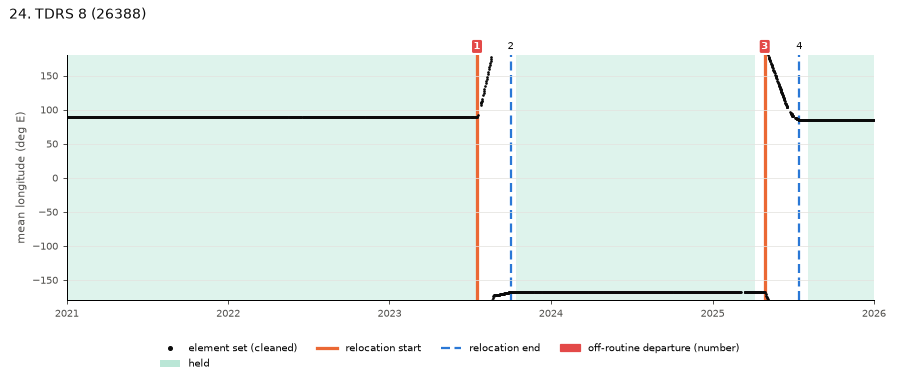
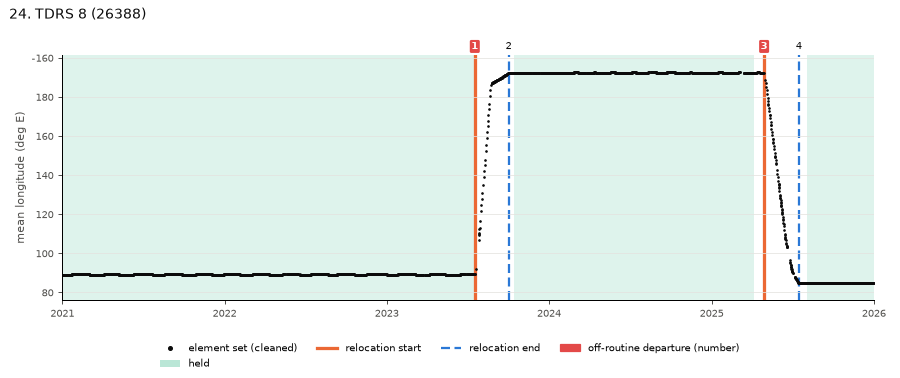
Dataset card fixes and date-line charts: lon_after wording, check 6 split, check 8 named, type guard
The card now states lon_after for a departure with no later hold as the median of the last 10 days
of the data, splits check 6 into its two comparisons, names check 8's failure, gives the one target
chosen on dev trials, and moves the 2-year rating bar out of the known limits. The job checks that
rocket bodies and debris match the dead-object check and are never rated, and asks for --catalogue
when OUT/objects.csv is missing. Charts of objects that cross 180 deg keep a continuous longitude
axis with wrapped labels; SJ-17, TDRS 8, FENGYUN 4B and SBIRS GEO 6 are redrawn. No table changes.

diff --git a/orbit_watch/jobs/dataset.py b/orbit_watch/jobs/dataset.py
@@ -82,6 +82,11 @@ def build(findings: Path, catalogue: dict[int, dict]) -> tuple[list[dict], list[
     for r in unrated:
         if catalogue[int(r["norad_id"])]["object_type"] != r["object_type"]:
             raise ValueError(f"{r['norad_id']}: catalogue type differs from unrated.csv")
+    dead = {n for n in population if catalogue[n]["object_type"] in ("ROCKET BODY", "DEBRIS")}
+    if len(dead) != load_json(routine / "checks_all.json")["dead_objects"]["objects"]:
+        raise ValueError("rocket body and debris count differs from checks_all.json")
+    if dead & {int(r["norad_id"]) for r in rank}:
+        raise ValueError("a rocket body or debris object is rated")
 
     score = {key(r): r for r in departures}
     flag = {(r["norad_id"], "relocation_end", r["date"]): r for r in flagged}
@@ -223,15 +228,13 @@ def routine_checks(c: dict, planted: dict, rank: list[dict]) -> tuple[list[list]
     cuts = c["causality"]
     same = {d: v["spearman_vs_full_run_cut_at_same_date"] for d, v in cuts.items()}
     final = {d: v["spearman_vs_full_run_final"] for d, v in cuts.items()}
-    passed = [d for d, v in same.items() if v >= TARGETS["as_of"]]
-    whole = len(passed) == len(same) and all(v >= TARGETS["as_of"] for v in final.values())
-    none = not passed and not any(v >= TARGETS["as_of"] for v in final.values())
-    add("6. Spearman of reruns on data cut at each year-end, against the full run cut at the same date / "
-        "against the final run",
-        ", ".join(f"{d}: {same[d]} / {final[d]}" for d in cuts), num(TARGETS["as_of"]),
-        "pass" if whole else "**fail**" if none else
-        f"part, against the same-date run at {len(passed)} of {len(same)} cuts; against the final run at "
-        f"{sum(v >= TARGETS['as_of'] for v in final.values())} of {len(final)}")
+    for label, side in (("the full run cut at the same date", same), ("the final run", final)):
+        passed = [d for d, v in side.items() if v >= TARGETS["as_of"]]
+        failed = [d for d in side if d not in passed]
+        add(f"6. Spearman of reruns on data cut at each year-end, against {label}",
+            ", ".join(f"{d}: {side[d]}" for d in side), num(TARGETS["as_of"]),
+            "pass" if not failed else "**fail**" if not passed else
+            f"part, pass at {', '.join(passed)}; fail at {', '.join(failed)}")
     a = c["hand_audit"]["top"]
     add("7. Top 30 judged irregular in the blind hand audit", f"{a['class']['irregular']} of {a['objects']}",
         f"{TARGETS['audit']} of {a['objects']}", verdict(a["class"]["irregular"] >= TARGETS["audit"]))
@@ -243,8 +246,9 @@ def routine_checks(c: dict, planted: dict, rank: list[dict]) -> tuple[list[list]
     mid = median(float(r["bits_per_year"]) for r in rank)
     ok = sd["in_lower_half"] >= TARGETS["steady"] * sd["rateable"]
     add("9. Cited steady keepers in the lower half",
-        f"{sd['in_lower_half']} of {sd['rateable']}; none of the {sd['listed']} has a scored departure, against "
-        f"{sd['rated_share_no_scored_departure']:.1%} of rated objects (chance {sd['chance_of_at_least_as_many_in_a_random_draw']})",
+        f"{sd['in_lower_half']} of {sd['rateable']}; none of the {sd['listed']} has a scored departure, and "
+        f"{sd['rated_share_no_scored_departure']:.1%} of rated objects ({sd['rated_no_scored_departure']} of "
+        f"{sd['rated']}) have none (chance {sd['chance_of_at_least_as_many_in_a_random_draw']})",
         f"{TARGETS['steady']:.0%}", verdict(ok) + (f", but weak: the median rated object has {num(mid)} bits per year"
                                                     if ok and mid == 0 else ""))
     return out, tally
@@ -322,7 +326,8 @@ def card(findings: Path, events: list[dict], objects: list[dict]) -> str:
         "fresh_max": fresh["real_max_abs_error_days"], "routine_audit_table": routine_audit,
         "checks_table": table(["check", "result", "target", "verdict"], check_rows),
         "checks_n": len(check_rows), "checks_pass": tally["pass"], "checks_fail": tally["fail"],
-        "checks_part": tally["part"],
+        "checks_part": tally["part"], "irregular_top": checks["cited_lists"]["irregular"]["in_top_5_percent"],
+        "irregular_rateable": checks["cited_lists"]["irregular"]["rateable"],
         "commit_events": sc["commit"][:7], "commit_routine": ro["commit"][:7],
         "commit_cache": ro["belt_cache_commit"][:7], "commit_checks": checks["commit"][:7],
         "commit_planted": planted["commit"][:7], "commit_eval": ev["commit"][:7],
@@ -358,8 +363,10 @@ def evidence(findings: Path, events: list[dict], objects: list[dict]) -> str:
              f"{irregular} of these {len(top)} were judged irregular; the others are marked below.", "",
              "In each chart the green bands are the held spans the score uses and each vertical line is one state "
              "change, numbered as in the table under it. A number on a red badge is an off-routine departure "
-             "(5 bits or more). The longitude axis covers the object's holds and listed longitudes; element sets "
-             "outside it (launch and transfer orbits) are counted in the corner and not drawn.", ""]
+             "(5 bits or more). The longitude axis covers the object's holds and listed longitudes, and runs on "
+             "across 180 deg for an object whose longitudes cross it, with its labels wrapped back to -180 to 180. "
+             "Element sets outside the axis, such as launch and transfer orbits or the drift after a graveyard "
+             "climb, are counted at the top right and not drawn.", ""]
     if any(notes[int(o["rank"])]["class"] == "unclear" for o in top):
         lines += ["For an `unclear` object a `departures_real` of `no` means the judge could not see the move on the "
                   "four-panel chart, whose axes its launch points stretched, not that the move was disproved. The "
@@ -434,7 +441,9 @@ def main(argv: list[str] | None = None) -> int:
     p.add_argument("--geo-dir", type=Path, help="for --charts: folder of <norad>.tle files; default $ORBIT_WATCH_DATA/geo")
     p.add_argument("--cache", type=Path, help="for --charts: belt cache; default $ORBIT_WATCH_DATA/routine/belt.pkl")
     a = p.parse_args(argv)
-    cat = catalogue_from_manifest(a.catalogue) if a.catalogue else catalogue_from_objects(a.out / "objects.csv")
+    if not a.catalogue and not (a.out / "objects.csv").exists():
+        p.error(f"{a.out / 'objects.csv'} does not exist; pass --catalogue with the GEO-region manifest.json")
+    cat =catalogue_from_manifest(a.catalogue) if a.catalogue else catalogue_from_objects(a.out / "objects.csv")
     events, objects = build(FINDINGS, cat)
     write(a.out / "events.csv", csv_text(EVENT_FIELDS, events))
     write(a.out / "objects.csv", csv_text(OBJECT_FIELDS, objects))
@@ -479,7 +488,7 @@ by hand.
 | `relocation_start` | a held object left its slot and was held again later, was still moving at relocation speed when the data end, or moved at relocation speed until a graveyard climb |
 | `relocation_end` | a moving object started to hold a slot |
 | `graveyard` | a held object left and its semi-major axis rose at least 150 km, with no later hold; or an object never held climbed at least 150 km above its first 90 days and stayed there |
-| `keeping_stop` | a held object stopped east-west station keeping with no climb, no later hold and no move under way at the end of the data |
+| `keeping_stop` | a held object stopped east-west station keeping with no climb, no later hold and no move under way at the end of the data, or drifted slowly for more than 90 days before a climb |
 | `ns_keeping_stop` | a held object stopped correcting its inclination but kept its longitude |
 | `free_burn` | a step of at least 1 km in the semi-major axis by an object never held again |
 
@@ -501,7 +510,9 @@ listed and not scored. Of the $departures departures, $scored are scored ($stays
 model, $rate_model by the rate model), $end_of_life are end of life and $commissioning are early starts;
 $off_routine are off-routine. There are $overruns stay overruns, and $flagged of the $arrivals arrivals,
 on $flagged_objects objects, carry a proximity flag. Objects held at least 2 years are ranked by bits
-per year; only $with_bits of the $rated rated objects have any bits. The full method is in
+per year; only $with_bits of the $rated rated objects have any bits. The 2-year bar is part of
+the method, so recently launched inspectors and rarely held objects are on the unrated list, not in
+the rank. The full method is in
 [orbit_watch/README.md](../orbit_watch/README.md#routine-score-and-irregularity-rank).
 
 ## Columns of `events.csv`
@@ -519,7 +530,7 @@ unless the column says otherwise.
 | `date` | the UTC day of the change. A departure is the first element set that leaves the hold's drift band or longitude box and stays out 5 days, or the last burn plus half the burn interval; an arrival the first set that stays inside the new slot's band; a change inside a gap of more than 2 days is placed in the gap from the first set after it |
 | `signal` | what dated the change: `rate_exit` or `rate_entry` (drift rate or longitude leaving or entering the hold), `burn_gap` (last east-west burn plus half the burn interval), `a_step` (a step in the semi-major axis), `ns_gap` (last inclination correction plus half the median interval between corrections), `mode_change` (no sustained exit or entry within 45 days, so the 30-day mode boundary is used) |
 | `size` | per type: `relocation_start` km, the median semi-major axis of the first moving run minus the hold's, negative when the object drifts east (0 when the next window is already held); `relocation_end` 0; `graveyard` and `keeping_stop` km, the highest semi-major axis after the hold minus the hold's median (0 for a keeping stop followed by a move or climb); `ns_keeping_stop` deg, the largest inclination after it; `free_burn` m, the step detector's step, which can have the opposite sign to the net change on a steady climb |
-| `lon_before`, `lon_after` | mean longitude before and after the change, deg east from -180 to 180 (west is negative): the centre of the hold's longitude range (of its 30 days next to the change when the range is wider than 0.5 deg), or the median of the 10 days next to the change when that side is not held. Empty when those 10 days hold no element set ($empty_lon rows) |
+| `lon_before`, `lon_after` | mean longitude before and after the change, deg east from -180 to 180 (west is negative): from or into a hold, the centre of the hold's longitude range (of its 30 days next to the change when the range is wider than 0.5 deg); on an arrival from a stretch that is not held, `lon_before` is the median of the 10 days before it; for a departure with no later hold, `lon_after` is the median of the last 10 days of the data. Empty when those 10 days hold no element set ($empty_lon rows) |
 | `mode_before`, `mode_after` | ESA mode class of the 30-day mode segments either side: `controlled_lon_inc` (held, inclination controlled), `controlled_lon` (held), `drifting`, `librating_75E`, `librating_105W`, `librating_both`, `out_of_region` |
 | `mode_change` | the date of the 30-day mode boundary the change came from |
 | `scored` | departures only: 1 if the relocation start is scored; 0 for end-of-life rows and for starts in an object's first 180 days |
@@ -593,11 +604,14 @@ $fresh_table
 
 ### The routine score and rank
 
-**Of the $checks_n checks, $checks_pass pass, $checks_fail fail and $checks_part passes only in part.**
-Every target was set before the first run. The rank agrees with a blind reading of its top 30 charts
-and keeps cited steady keepers out of its upper half, but it flags few cited relocations as
-off-routine, it is not stable between the two halves of the period, a rank on part of the data does
-not predict the five-year rank, and the planted rhythm test is below its target. Only $stay_objects rated
+**Of the $checks_n rows below (check 6 has one row per run it is compared with), $checks_pass pass,
+$checks_fail fail and $checks_part passes only in part.** Every target was set before the first run,
+with one exception: the stay window's share was chosen on check 4's dev trials, so check 4's test
+trials are its held-out result. The rank agrees with a blind reading of its top 30 charts and keeps
+cited steady keepers out of its upper half, but it flags few cited relocations as off-routine, only
+$irregular_top of the $irregular_rateable cited irregular objects held long enough to rate are in its
+top 5%, it is not stable between the two halves of the period, a rank on part of the data does not
+predict the five-year rank, and the planted rhythm test is below its target. Only $stay_objects rated
 objects get any bits from the stay model (ranks $stay_ranks); everywhere else the order is set by the
 rate model alone, which counts how often and how late an object left, not whether it left on its own
 schedule. Sources: `checks_all.json` and `planted_all.json` in `findings/routine/`.
@@ -638,8 +652,6 @@ Each is an open issue labelled `debt`.
 - Check 9 is weak while the median rated object has 0 bits per year ([#90](../../../issues/90)).
 - The proximity flag's owner code is per country, so an arrival next to another operator of the same
   country is never flagged ([#89](../../../issues/89)).
-- Only objects held 2 years are rated, so recently launched inspectors and rarely held objects are on
-  the unrated list, not in the rank.
 
 All open limits: [issues labelled `debt`](../../../issues?q=is%3Aissue+is%3Aopen+label%3Adebt).
 

diff --git a/orbit_watch/charts.py b/orbit_watch/charts.py
@@ -39,6 +39,10 @@ def kind_of(event_type: str) -> str:
     return "arrival" if event_type == "relocation_end" else "other"
 
 
+def wrap(lon) -> np.ndarray:
+    return (np.asarray(lon, dtype=float) + 180.0) % 360.0 - 180.0
+
+
 def lon_range(days: np.ndarray, lon: np.ndarray, events: Sequence[dict],
               holds: Sequence[tuple[float, float]]) -> tuple[float, float]:
     inside = np.zeros(len(days), dtype=bool)
@@ -49,9 +53,23 @@ def lon_range(days: np.ndarray, lon: np.ndarray, events: Sequence[dict],
         values = list(lon)
     lo, hi = float(np.min(values)), float(np.max(values))
     if hi - lo > WHOLE_BELT_DEG:
+        centre = float(np.degrees(np.angle(np.exp(1j * np.radians(values)).mean())))
+        shifted = centre + wrap(np.array(values) - centre)
+        lo, hi = float(np.min(shifted)), float(np.max(shifted))
+    if hi - lo > WHOLE_BELT_DEG:
         return -180.0, 180.0
     pad = max(LON_PAD_DEG, 0.08 * (hi - lo))
     return lo - pad, hi + pad
+
+
+def recentre(lon: np.ndarray, lo: float, hi: float) -> np.ndarray:
+    centre = (lo + hi) / 2
+    return centre + wrap(lon - centre)
+
+
+def tick_label(v: float, _pos=None) -> str:
+    w = float(wrap(v))
+    return f"{180.0 if w == -180.0 else w:g}"
 
 
 def label_rows(days: Sequence[float]) -> list[int]:
@@ -74,6 +92,7 @@ def chart(path: Path, title: str, records, events: Sequence[dict], holds: Sequen
     import matplotlib.pyplot as plt
     from matplotlib.lines import Line2D
     from matplotlib.patches import Patch
+    from matplotlib.ticker import FuncFormatter
 
     kept, _ = drop_snapback_blocks(records)
     tk = track(kept)
@@ -85,16 +104,19 @@ def chart(path: Path, title: str, records, events: Sequence[dict], holds: Sequen
     hidden = 0
     for ax, name in zip(axes, panels):
         y = series[name]
+        if name == "lon":
+            lo, hi = lon_range(tk.days, tk.lon, events, holds)
+            if lo < -180.0 or hi > 180.0:
+                y = recentre(y, lo, hi)
+                ax.yaxis.set_major_formatter(FuncFormatter(tick_label))
+            hidden = int(((y < lo) | (y > hi)).sum())
+            ax.set_ylim(lo, hi)
         for s, e in holds:
             ax.axvspan(s, e, color=HOLD, alpha=0.14, lw=0, zorder=0)
         for x, ev in zip(xs, events):
             kind = kind_of(ev["event_type"])
             ax.axvline(x, zorder=ZORDER[kind], **STYLES[kind][1])
         ax.plot(tk.days, y, ".", color=INK, ms=2.2, zorder=2.0)
-        if name == "lon":
-            lo, hi = lon_range(tk.days, tk.lon, events, holds)
-            hidden = int(((y < lo) | (y > hi)).sum())
-            ax.set_ylim(lo, hi)
         ax.set_ylabel(PANELS[name], fontsize=9, color=MUTED)
         ax.tick_params(labelsize=8, colors=MUTED)
         for side in ("top", "right"):

diff --git a/tests/test_dataset.py b/tests/test_dataset.py
@@ -3,7 +3,7 @@ from pathlib import Path
 
 import numpy as np
 
-from orbit_watch.charts import label_rows, lon_range
+from orbit_watch.charts import label_rows, lon_range, recentre
 from orbit_watch.jobs import dataset as ds
 from orbit_watch.truth import read_event_rows
 
@@ -55,7 +55,11 @@ def test_longitude_axis_covers_holds_and_listed_longitudes_but_not_the_transfer(
     lon = np.array([100.0, 60.0, 20.0, 10.0, 10.1, 10.0, 9.9, 9.5, 9.4, 9.5])
     lo, hi = lon_range(days, lon, [{"lon_before": "10.0", "lon_after": "9.45"}], [(3.0, 6.0), (7.0, 10.0)])
     assert lo == 9.4 - 0.25 and hi == 10.1 + 0.25
-    assert lon_range(days, np.array([170.0] * 5 + [-170.0] * 5), [], [(0.0, 10.0)]) == (-180.0, 180.0)
+    lo, hi = lon_range(days, np.array([175.0] * 5 + [-178.0] * 5), [], [(0.0, 10.0)])
+    assert np.allclose([lo, hi], [175.0 - 0.56, 182.0 + 0.56])
+    assert np.allclose(recentre(np.array([175.0, -178.0, -10.0]), lo, hi), [175.0, 182.0, 350.0])
+    spread = np.array([-170.0, -60.0, 50.0, 160.0] * 2 + [0.0, 0.0])
+    assert lon_range(days, spread, [], [(0.0, 10.0)]) == (-180.0, 180.0)
 
 
 def test_close_event_labels_move_to_a_new_row():

diff --git a/dataset/README.md b/dataset/README.md
@@ -29,7 +29,7 @@ by hand.
 | `relocation_start` | a held object left its slot and was held again later, was still moving at relocation speed when the data end, or moved at relocation speed until a graveyard climb |
 | `relocation_end` | a moving object started to hold a slot |
 | `graveyard` | a held object left and its semi-major axis rose at least 150 km, with no later hold; or an object never held climbed at least 150 km above its first 90 days and stayed there |
-| `keeping_stop` | a held object stopped east-west station keeping with no climb, no later hold and no move under way at the end of the data |
+| `keeping_stop` | a held object stopped east-west station keeping with no climb, no later hold and no move under way at the end of the data, or drifted slowly for more than 90 days before a climb |
 | `ns_keeping_stop` | a held object stopped correcting its inclination but kept its longitude |
 | `free_burn` | a step of at least 1 km in the semi-major axis by an object never held again |
 
@@ -58,7 +58,9 @@ listed and not scored. Of the 341 departures, 197 are scored (33 by the stay
 model, 164 by the rate model), 97 are end of life and 47 are early starts;
 131 are off-routine. There are 8 stay overruns, and 35 of the 340 arrivals,
 on 29 objects, carry a proximity flag. Objects held at least 2 years are ranked by bits
-per year; only 104 of the 532 rated objects have any bits. The full method is in
+per year; only 104 of the 532 rated objects have any bits. The 2-year bar is part of
+the method, so recently launched inspectors and rarely held objects are on the unrated list, not in
+the rank. The full method is in
 [orbit_watch/README.md](../orbit_watch/README.md#routine-score-and-irregularity-rank).
 
 ## Columns of `events.csv`
@@ -76,7 +78,7 @@ unless the column says otherwise.
 | `date` | the UTC day of the change. A departure is the first element set that leaves the hold's drift band or longitude box and stays out 5 days, or the last burn plus half the burn interval; an arrival the first set that stays inside the new slot's band; a change inside a gap of more than 2 days is placed in the gap from the first set after it |
 | `signal` | what dated the change: `rate_exit` or `rate_entry` (drift rate or longitude leaving or entering the hold), `burn_gap` (last east-west burn plus half the burn interval), `a_step` (a step in the semi-major axis), `ns_gap` (last inclination correction plus half the median interval between corrections), `mode_change` (no sustained exit or entry within 45 days, so the 30-day mode boundary is used) |
 | `size` | per type: `relocation_start` km, the median semi-major axis of the first moving run minus the hold's, negative when the object drifts east (0 when the next window is already held); `relocation_end` 0; `graveyard` and `keeping_stop` km, the highest semi-major axis after the hold minus the hold's median (0 for a keeping stop followed by a move or climb); `ns_keeping_stop` deg, the largest inclination after it; `free_burn` m, the step detector's step, which can have the opposite sign to the net change on a steady climb |
-| `lon_before`, `lon_after` | mean longitude before and after the change, deg east from -180 to 180 (west is negative): the centre of the hold's longitude range (of its 30 days next to the change when the range is wider than 0.5 deg), or the median of the 10 days next to the change when that side is not held. Empty when those 10 days hold no element set (5 rows) |
+| `lon_before`, `lon_after` | mean longitude before and after the change, deg east from -180 to 180 (west is negative): from or into a hold, the centre of the hold's longitude range (of its 30 days next to the change when the range is wider than 0.5 deg); on an arrival from a stretch that is not held, `lon_before` is the median of the 10 days before it; for a departure with no later hold, `lon_after` is the median of the last 10 days of the data. Empty when those 10 days hold no element set (5 rows) |
 | `mode_before`, `mode_after` | ESA mode class of the 30-day mode segments either side: `controlled_lon_inc` (held, inclination controlled), `controlled_lon` (held), `drifting`, `librating_75E`, `librating_105W`, `librating_both`, `out_of_region` |
 | `mode_change` | the date of the 30-day mode boundary the change came from |
 | `scored` | departures only: 1 if the relocation start is scored; 0 for end-of-life rows and for starts in an object's first 180 days |
@@ -172,11 +174,14 @@ counted here.
 
 ### The routine score and rank
 
-**Of the 9 checks, 4 pass, 4 fail and 1 passes only in part.**
-Every target was set before the first run. The rank agrees with a blind reading of its top 30 charts
-and keeps cited steady keepers out of its upper half, but it flags few cited relocations as
-off-routine, it is not stable between the two halves of the period, a rank on part of the data does
-not predict the five-year rank, and the planted rhythm test is below its target. Only 8 rated
+**Of the 10 rows below (check 6 has one row per run it is compared with), 4 pass,
+5 fail and 1 passes only in part.** Every target was set before the first run,
+with one exception: the stay window's share was chosen on check 4's dev trials, so check 4's test
+trials are its held-out result. The rank agrees with a blind reading of its top 30 charts and keeps
+cited steady keepers out of its upper half, but it flags few cited relocations as off-routine, only
+4 of the 6 cited irregular objects held long enough to rate are in its
+top 5%, it is not stable between the two halves of the period, a rank on part of the data does not
+predict the five-year rank, and the planted rhythm test is below its target. Only 8 rated
 objects get any bits from the stay model (ranks 1, 2, 3, 4, 5, 6, 7, 28); everywhere else the order is set by the
 rate model alone, which counts how often and how late an object left, not whether it left on its own
 schedule. Sources: `checks_all.json` and `planted_all.json` in `findings/routine/`.
@@ -188,10 +193,11 @@ schedule. Sources: `checks_all.json` and `planted_all.json` in `findings/routine
 | 3. Cited relocation starts on objects held a year before them, flagged off-routine when caught | 1 of 4 caught (8 cited, 4 on objects held a year before, 4 caught) | 90% of those caught | **fail** |
 | 4. Planted rhythm: 4 moves on a fixed rhythm, then one on or off it; both kinds scored right | dev 0.811 of 90 caught and scored, 0.73 of all 100; test 0.804 of 92 caught and scored, 0.74 of all 100 (3 moves then 1: dev 0.057, test 0.053) | 90% of trials | **fail** |
 | 5. Top 30 on 2021 to mid-2023 in the top 60 on the rest | 5 of 24; Spearman 0.068 | half | **fail** |
-| 6. Spearman of reruns on data cut at each year-end, against the full run cut at the same date / against the final run | 2022-01-01: 0.705 / 0.089, 2023-01-01: 0.918 / 0.342, 2024-01-01: 1.0 / 0.726, 2025-01-01: 0.976 / 0.841 | 0.9 | part, against the same-date run at 3 of 4 cuts; against the final run at 0 of 4 |
+| 6. Spearman of reruns on data cut at each year-end, against the full run cut at the same date | 2022-01-01: 0.705, 2023-01-01: 0.918, 2024-01-01: 1.0, 2025-01-01: 0.976 | 0.9 | part, pass at 2023-01-01, 2024-01-01, 2025-01-01; fail at 2022-01-01 |
+| 6. Spearman of reruns on data cut at each year-end, against the final run | 2022-01-01: 0.089, 2023-01-01: 0.342, 2024-01-01: 0.726, 2025-01-01: 0.841 | 0.9 | **fail** |
 | 7. Top 30 judged irregular in the blind hand audit | 27 of 30 | 24 of 30 | pass |
 | 8. Cited irregular objects in the top 5% | 4 of 6 rateable (18 listed) | 75% | **fail** |
-| 9. Cited steady keepers in the lower half | 31 of 31; none of the 31 has a scored departure, against 80.5% of rated objects (chance 0.000944) | 90% | pass, but weak: the median rated object has 0 bits per year |
+| 9. Cited steady keepers in the lower half | 31 of 31; none of the 31 has a scored departure, and 80.5% of rated objects (428 of 532) have none (chance 0.000944) | 90% | pass, but weak: the median rated object has 0 bits per year |
 
 **Blind audit (check 7).** The top 30 and 20 objects from the middle of the rank were shuffled, and a
 judge who saw only one chart per object (longitude, drift rate, semi-major axis and inclination with
@@ -230,8 +236,6 @@ Each is an open issue labelled `debt`.
 - Check 9 is weak while the median rated object has 0 bits per year ([#90](../../../issues/90)).
 - The proximity flag's owner code is per country, so an arrival next to another operator of the same
   country is never flagged ([#89](../../../issues/89)).
-- Only objects held 2 years are rated, so recently launched inspectors and rarely held objects are on
-  the unrated list, not in the rank.
 
 All open limits: [issues labelled `debt`](../../../issues?q=is%3Aissue+is%3Aopen+label%3Adebt).
 

diff --git a/README.md b/README.md
@@ -72,7 +72,7 @@ Every rule, threshold and source is in [orbit_watch/README.md](orbit_watch/READM
 | False events on satellites with published burn logs while on station | 0 in 6.46 object-years (QZS-3, QZS-6, Fengyun-2H) and 0 in 2.15 object-years on the held-out Fengyun-2F and Fengyun-4A |
 | 50 events drawn from a frozen copy of the list, judged by hand from the element sets | 47 real with the right type; of the 45 that could be dated, median error 0 days, 42 within 3 days; 6 rows changed in the final list, each toward the hand reading |
 | ISS burns in 2024-2025, held out from tuning the step detector | all 35 covered NASA and Roscosmos burns found; 35 of 42 detections match a listed burn |
-| Routine rank against outside judgement, with targets set before the run: the top 30 judged irregular by a blind hand audit of the charts (24); objects cited as irregular in the top 5% (75%); cited fixed-slot keepers in the lower half (90%) | audit: 27 of 30, pass; irregular: 4 of the 6 held long enough to rate, fail (12 of 18 are not rated); keepers: 31 of 31, pass, but the median is 0; none of the 31 has a scored departure, against 80.5% of rated objects (chance 0.00094) |
+| Routine rank against outside judgement, with targets set before the run: the top 30 judged irregular by a blind hand audit of the charts (24); objects cited as irregular in the top 5% (75%); cited fixed-slot keepers in the lower half (90%) | audit: 27 of 30, pass; irregular: 4 of the 6 held long enough to rate, fail (12 of 18 are not rated); keepers: 31 of 31, pass, but the median is 0; none of the 31 has a scored departure, and 80.5% of rated objects (428 of 532) have none (chance 0.00094) |
 | Planted rhythm: 4 relocations on a fixed rhythm, then one on or off it; both right in 90% of trials as the target | 0.811 (dev) and 0.804 (test) of trials whose last move was caught and scored, 0.73 and 0.74 of all 100, fail; on rhythm under 2 bits in 41 of 48 and 39 of 47, off rhythm 5 bits or more in 32 of 42 and 35 of 45; 3 then 1, the test as first specified, gives 0.057 and 0.053 because the last departure has only 2 past stays |
 
 Across the belt: **768 changes on 301 objects**: 244 relocation starts, 340 relocation ends, 83

diff --git a/dataset/evidence/README.md b/dataset/evidence/README.md
@@ -2,7 +2,7 @@
 
 One section per object, in rank order: its standing from [`../objects.csv`](../objects.csv), its state changes from [`../events.csv`](../events.csv), the class a blind judge gave it from its chart (`findings/routine/audit_verdicts.csv`, joined to the rank through `audit_key.csv`) and a chart of its mean longitude. The judge saw an earlier four-panel chart with no ranks or scores. 27 of these 30 were judged irregular; the others are marked below.
 
-In each chart the green bands are the held spans the score uses and each vertical line is one state change, numbered as in the table under it. A number on a red badge is an off-routine departure (5 bits or more). The longitude axis covers the object's holds and listed longitudes; element sets outside it (launch and transfer orbits) are counted in the corner and not drawn.
+In each chart the green bands are the held spans the score uses and each vertical line is one state change, numbered as in the table under it. A number on a red badge is an off-routine departure (5 bits or more). The longitude axis covers the object's holds and listed longitudes, and runs on across 180 deg for an object whose longitudes cross it, with its labels wrapped back to -180 to 180. Element sets outside the axis, such as launch and transfer orbits or the drift after a graveyard climb, are counted at the top right and not drawn.
 
 For an `unclear` object a `departures_real` of `no` means the judge could not see the move on the four-panel chart, whose axes its launch points stretched, not that the move was disproved. The charts here zoom to the object's own longitudes.
 

diff --git a/findings/README.md b/findings/README.md
@@ -713,8 +713,9 @@ a hold of two to four months. TJS-10 (rank 9) and GAOFEN 13 02 (rank 13) are `un
 launch points stretch the chart axes, so a move under about 3° cannot be seen. Their
 `departures_real` of `no` means "not visible on the chart", not "disproved". In the middle,
 TIANLIAN 1-03 (rank 268) is end of life: its November 2023 graveyard climb is listed and, as an
-end-of-life row, adds no bits. On many charts the `relocation_start` and `graveyard` lines render
-dark rather than red; the judge treated every line labelled as a departure as one. The charts are
+end-of-life row, adds no bits. On many of the charts the judge saw, the `relocation_start` and `graveyard` lines
+looked dark rather than red; the judge treated every line labelled as a departure as one. The chart
+was changed afterwards to draw wider lines styled by type, with a legend. The charts are
 written to `$ORBIT_WATCH_DATA/routine/audit_charts_v2/` and are not committed.
 
 Known limits:
